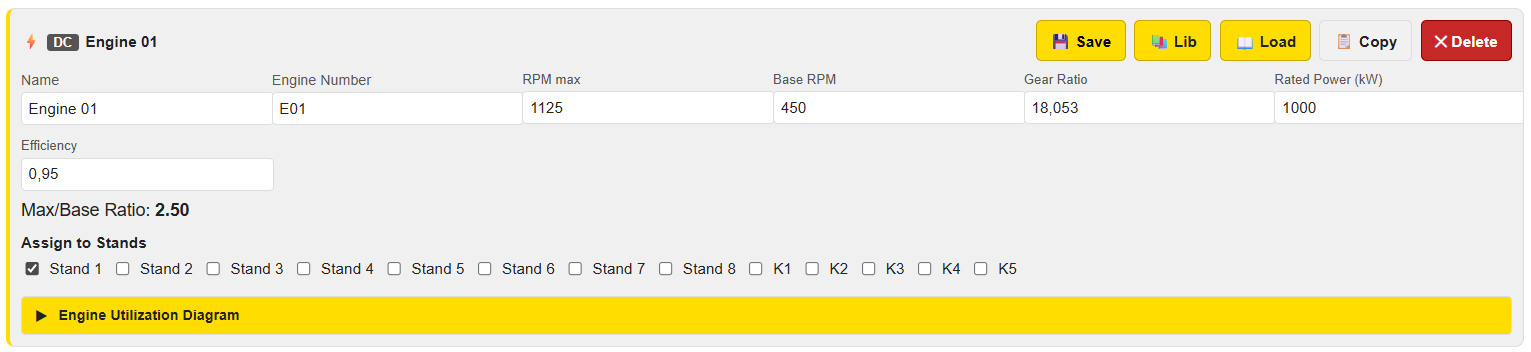
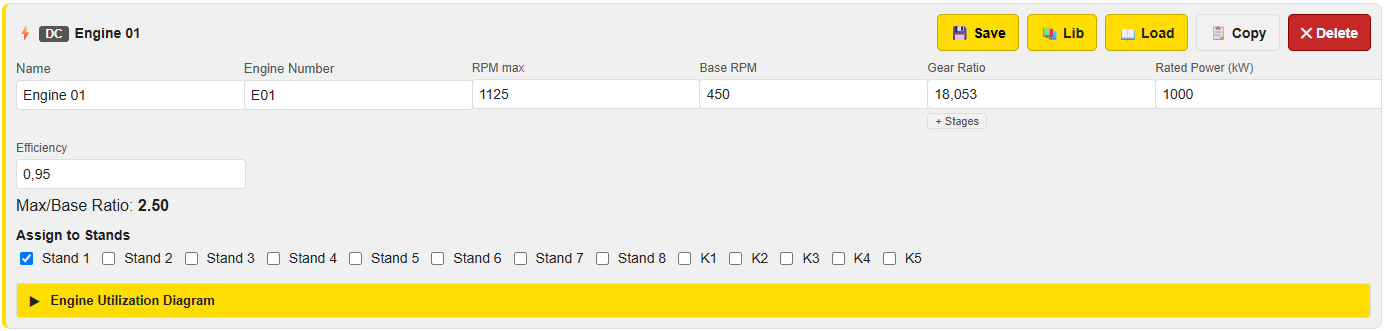
docs: sync PassDesign_Guide and EngineConfiguration_Guide with v1.10.15 - Roux/Sander/Sparling, disk element count, rotation override, gear stages, updated images

diff --git a/PassDesign_Guide.html b/PassDesign_Guide.html
@@ -115,7 +115,7 @@
 </div>
 
 <h1>Pass Design Guide <img src="img/pyroll_icon.png" style="height:1.8em; opacity:0.85;" alt="PyRoll"></h1>
-<p><em>PyRoll GUI &nbsp;|&nbsp; Date: May 2026</em></p>
+<p><em>PyRoll GUI &nbsp;|&nbsp; Date: July 2026</em></p>
 
 <hr>
 
@@ -282,6 +282,14 @@
   <tr><td><code>Value</code></td><td>m/s or 1/s</td><td>Numeric value corresponding to the velocity definition selected above.</td></tr>
   <tr><td><code>Coulomb Friction Coefficient</code></td><td>—</td><td>Friction coefficient μ between workpiece and roll surface. Typical values: 0.2–0.4 for hot rolling.</td></tr>
   <tr><td><code>Orientation</code></td><td>—</td><td>Roll axis orientation: <em>horizontal</em> (rolls above/below) or <em>vertical</em> (rolls left/right).</td></tr>
+  <tr><td><code>Rotation Override</code></td><td>°</td><td>Optional additional rotation of the incoming profile <em>before</em> it enters this pass, in degrees. Equivalent to inserting a mechanical rotator between the preceding pass and this one.
+    <br><br>
+    <strong>Typical use:</strong> A value of <strong>45°</strong> is used when a square profile from a preceding pass should enter a flat groove on its side (flat-side first) rather than corner-first — which is the case in the classical oval&nbsp;→&nbsp;square&nbsp;→&nbsp;<em>rotated</em>&nbsp;→&nbsp;flat sequence. Without this rotation, PyRolL would compress the corner of the square instead of the flat face.
+    <br><br>
+    <strong>Effect on visualization:</strong> The Pass Sequence Visualization shows the incoming profile already in the rotated orientation relative to the roll gap, so it correctly reflects the physical deformation geometry.
+    <br><br>
+    Leave blank or set to <strong>0</strong> for no rotation (standard case).
+  </td></tr>
   <tr><td><code>Groove Type</code></td><td>—</td><td>Cross-sectional profile of the roll groove. See Section 6 for available types. The <span style="display:inline-flex;align-items:center;justify-content:center;width:16px;height:16px;border-radius:50%;background:#1976d2;color:#fff;font-size:11px;font-weight:700;font-style:normal;line-height:1;vertical-align:middle;">i</span> button next to the selector opens a preview panel showing all groove types with their geometric parameters.</td></tr>
   <tr><td><code>Groove Parameters</code></td><td>mm</td><td>Geometry parameters specific to the selected groove type (radii, depths, widths). See Section 6. Use the <strong>Library</strong> button to load or save a groove directly from the Groove Library.</td></tr>
 </table>
@@ -703,6 +711,58 @@
   the block motor RPM serves as the velocity constraint.
 </div>
 
+<h3>10.3 Disk Element Count</h3>
+<p>
+  The <strong>Disk Element Count</strong> controls how finely PyRolL subdivides each pass
+  in the rolling direction for the thermal and mechanical computation. The roll bite is
+  divided into <em>n</em> equally spaced disk elements; the thermal ring model solves
+  the heat equation at each disk position. The setting is located in the sequence header
+  toolbar, next to the Spreading Equation selector.
+</p>
+
+<img src="img/pass_design_disc_element_count.png" alt="Disk Element Count selector in the sequence header toolbar" class="screenshot">
+
+<table class="params-table">
+  <tr><th>Value</th><th>Effect</th><th>Typical use</th></tr>
+  <tr>
+    <td><strong>5 – 10</strong></td>
+    <td>Very fast; coarse temperature / stress distribution along the bite</td>
+    <td>Quick parameter studies, large reduction passes with slow convergence</td>
+  </tr>
+  <tr>
+    <td><strong>15 – 20</strong></td>
+    <td>Good balance between speed and accuracy</td>
+    <td>Iterative calibration, multi-sequence schedules</td>
+  </tr>
+  <tr>
+    <td><strong>30</strong></td>
+    <td>Default — high spatial resolution; noticeable computation time per pass</td>
+    <td>Final validation simulations, accuracy-critical results</td>
+  </tr>
+  <tr>
+    <td><strong>50+</strong></td>
+    <td>Maximum resolution; significantly longer computation time</td>
+    <td>Research / publication; thermal gradient studies</td>
+  </tr>
+</table>
+
+<div class="warn">
+  <strong>Impact on computation time:</strong> The computation time per pass scales
+  <em>approximately linearly</em> with the disk element count. Reducing from 30 to 15
+  approximately halves the solve time per pass. For schedules where a pass hits the
+  maximum iteration count (convergence warning in the backend log), reducing the disk
+  element count is the fastest way to speed up the simulation — the physical result
+  changes only marginally at moderate reductions.
+</div>
+
+<div class="info">
+  <strong>Convergence warnings:</strong> If the backend log shows
+  <em>"Solution iteration … exceeded the maximum iteration count of 100"</em>, the
+  solver could not fully converge for that pass. This typically happens at very large
+  reductions (&gt; 50 % area reduction in one pass). Reducing the Disk Element Count
+  to 10–15 usually resolves the issue without significantly affecting result quality.
+</div>
+
 <hr>
 
 <h2>11. Spreading Models</h2>
@@ -797,7 +857,80 @@
   for flat and near-flat passes where the plane-strain assumption is approximately valid.
 </p>
 
-<h3>11.4 Choosing a Model</h3>
+<h3>11.4 Roux Spreading</h3>
+<p>
+  The <strong>Roux</strong> model (1976) takes a fundamentally different approach: instead of a
+  simple power law, it computes a <em>spread coefficient</em> from two intermediate
+  parameters derived from the equivalent height/width dimensions of the incoming profile.
+</p>
+<div class="formula-box">
+  $$\eta = 1 + \frac{\Delta h_{eq} \cdot F_2 \cdot F_3}{b_{eq,0}}$$
+  <p style="margin:0.5em 0 0 0; font-size:0.92em;">
+    First Roux parameter:<br>
+    \(a = \left(1 + 5\left(0.35 - \dfrac{\Delta h_{eq}}{h_{eq,0}}\right)^{\!2}\right)\sqrt{\dfrac{h_{eq,0}}{\Delta h_{eq}} - 1}\)
+    &nbsp;&nbsp;&nbsp;
+    Second Roux parameter:<br>
+    \(b = \left(\dfrac{b_{eq,0}}{h_{eq,0}} - 1\right)\)<br><br>
+    Spread factor \(F_2\):<br>
+    \(F_2 = \dfrac{1}{\left(1 - \dfrac{\Delta h_{eq}}{h_{eq,0}}\right) + \dfrac{3a}{\left(\dfrac{2R}{h_{eq,0}}\right)^{3/4}}}\)
+    &nbsp;&nbsp;&nbsp;
+    Profile factor \(F_3\):<br>
+    \(F_3 = \dfrac{b_{eq,0}/h_{eq,0}}{1 + 0.57\,b}\)<br><br>
+    where \(h_{eq,0}, b_{eq,0}\) = equivalent height / width of incoming profile,
+    \(\Delta h_{eq}\) = equivalent height reduction, \(R\) = working roll radius.
+    Then \(b_1 = \eta \cdot b_0\).
+  </p>
+</div>
+<div class="note">
+  <strong>Friction / Velocity / Temperature — no effect with Roux:</strong> The default
+  implementation contains no correction factors for velocity, temperature, material or
+  friction. The spread result depends solely on the geometric ratio
+  \(b_{eq}/h_{eq}\) and the roll radius.
+</div>
+
+<h3>11.5 Sander Spreading</h3>
+<p>
+  The <strong>Sander</strong> model shares the same general power-law structure as
+  Wusatowski but uses a different exponent formula that explicitly accounts for the
+  ratio of workpiece width to contact arc length:
+</p>
+<div class="formula-box">
+  $$\frac{b_1}{b_0} = a_T \cdot a_v \cdot a_M \cdot a_f \cdot \left(\frac{h_0}{h_1}\right)^{\psi_S}$$
+  <p style="margin:0.5em 0 0 0; font-size:0.92em;">
+    Sander exponent:<br>
+    \(\psi_S = 10^{\,-0.76\,\left(\frac{b_{eq}}{h_{eq}}\right)^{0.39}\,\left(\frac{b_{eq}}{\sqrt{R\,\Delta h_{eq}}}\right)^{0.12}\,\left(\frac{b_{eq}}{R}\right)^{0.59}}\)
+  </p>
+</div>
+<div class="info">
+  <strong>Velocity correction \(a_v\) with Sander:</strong> A velocity correction applies
+  when \(v \le 60\) m/s:
+  \(a_v = 1 - 0.0033 \cdot v \cdot \left(1 - \frac{b_0}{b_1}\right)\).
+  At high rolling speeds (\(v > 60\) m/s) the correction is set to 1 (no effect).
+</div>
+<div class="note">
+  <strong>Friction — no effect with Sander:</strong> The friction correction factor is
+  fixed at \(a_f = 1\).
+</div>
+
+<h3>11.6 Sparling Spreading</h3>
+<p>
+  The <strong>Sparling</strong> model adopts the Wusatowski-style power law but
+  introduces a distinctive exponential exponent formula:
+</p>
+<div class="formula-box">
+  $$\frac{b_1}{b_0} = \left(\frac{h_0}{h_1}\right)^{-\psi_{Sp} \cdot a_T \cdot a_{\dot\varepsilon} \cdot a_M \cdot a_{rs} \cdot a_{bs}}$$
+  <p style="margin:0.5em 0 0 0; font-size:0.92em;">
+    Sparling exponent:<br>
+    \(\psi_{Sp} = 0.981 \cdot \exp\!\left(-0.6735 \cdot \dfrac{2.395\,b_{eq}^{\,0.9}}{R^{0.55}\,h_{eq}^{\,0.1}\,|\Delta h|^{0.25}}\right)\)<br><br>
+    All correction factors default to 1 in the standard implementation.
+  </p>
+</div>
+<div class="note">
+  <strong>Friction / Velocity / Temperature — no effect (default):</strong> All
+  correction factors default to 1.
+</div>
+
+<h3>11.7 Choosing a Model</h3>
 <table>
   <tr><th>Model</th><th>Best suited for</th><th>Friction effect</th><th>Velocity effect</th><th>Notes</th></tr>
   <tr>
@@ -820,6 +953,27 @@
     <td>Indirect (via friction in force/torque)</td>
     <td>None</td>
     <td>Analytically derived; less accurate for profiled grooves</td>
+  </tr>
+  <tr>
+    <td>Roux</td>
+    <td>Wide workpieces; cases where velocity/temperature data is uncertain</td>
+    <td>None</td>
+    <td>None</td>
+    <td>Physics-motivated derivation; no empirical correction factors</td>
+  </tr>
+  <tr>
+    <td>Sander</td>
+    <td>Wide flat passes, workpieces with large \(b/h\) ratio</td>
+    <td>None (constant \(a_f=1\))</td>
+    <td><strong>Yes</strong> — at \(v \le 60\) m/s</td>
+    <td>Exponent more sensitive to width-to-contact-arc ratio than Wusatowski</td>
+  </tr>
+  <tr>
+    <td>Sparling</td>
+    <td>High-reduction passes; comparison / validation studies</td>
+    <td>None (default)</td>
+    <td>None (default)</td>
+    <td>Exponential exponent form; sensitive to \(b/\sqrt{R\,|\Delta h|}\)</td>
   </tr>
 </table>
 

diff --git a/EngineConfiguration_Guide.html b/EngineConfiguration_Guide.html
@@ -109,7 +109,7 @@
 </div>
 
 <h1>Engine Configuration Guide <img src="img/pyroll_icon.png" style="height:1.8em; opacity:0.85;" alt="PyRoll"></h1>
-<p><em>PyRoll GUI &nbsp;|&nbsp; Date: June 2026</em></p>
+<p><em>PyRoll GUI &nbsp;|&nbsp; Date: July 2026</em></p>
 <hr>
 
 <nav class="toc">
@@ -118,7 +118,11 @@
     <li><a href="#overview">Overview</a></li>
     <li><a href="#engine-card">Engine Card</a></li>
     <li><a href="#engine-types">Engine Types: DC vs. AC</a></li>
-    <li><a href="#parameters">Engine Parameters</a></li>
+    <li><a href="#parameters">Engine Parameters</a>
+      <ul style="list-style:none; padding-left:1.2em; margin:0.2em 0;">
+        <li><a href="#gear-stages">4.1 Multi-Stage Gear Ratio</a></li>
+      </ul>
+    </li>
     <li><a href="#assign">Assign to Stands</a></li>
     <li><a href="#utilization">Engine Utilization Diagram</a></li>
     <li><a href="#actions">Card Actions: Save, Copy, Delete</a></li>
@@ -239,7 +243,7 @@
   <tr><td>RPM max</td><td>rpm</td><td>Maximum allowable motor speed (top of the field-weakening range for DC; inverter limit for AC)</td></tr>
   <tr><td>Base RPM <em>(DC)</em> / Rated RPM <em>(AC)</em></td><td>rpm</td><td>Speed at the rated operating point — transition between constant-torque and constant-power zones</td></tr>
   <tr><td>Power Factor cos φ</td><td>—</td><td><em>AC only.</em> Ratio of active to apparent power (typical: 0.85–0.95)</td></tr>
-  <tr><td>Gear Ratio</td><td>—</td><td>Overall gear ratio between motor shaft and roll: <em>i = n_motor / n_roll</em>. A higher gear ratio means the motor rotates faster than the roll.</td></tr>
+  <tr><td>Gear Ratio</td><td>—</td><td>Overall gear ratio between motor shaft and roll: <em>i = n_motor / n_roll</em>. A higher gear ratio means the motor rotates faster than the roll.<br>A <strong>+ Stages</strong> button below the field activates multi-stage gear ratio mode — see Section 4.1.</td></tr>
   <tr><td>Rated Power</td><td>kW</td><td>Continuous rated shaft power at the rated RPM point</td></tr>
   <tr><td>Efficiency η</td><td>—</td><td>Mechanical drive-train efficiency (gearbox + coupling losses). Typical: 0.90–0.97. The required motor power is divided by η to obtain the actual motor demand.</td></tr>
 </table>
@@ -247,6 +251,51 @@
 <div class="tip">
   Comma-separated decimal numbers (e.g. <code>18,053</code>) are accepted in all
   numeric fields — the comma is automatically converted to a decimal point.
+</div>
+
+
+<!-- ═══════════════════════════════════════════════════════════ -->
+<h2 id="gear-stages">4.1 Multi-Stage Gear Ratio</h2>
+<p>
+  Some roll stands have a switchable gearbox with two or three discrete gear ratios
+  (e.g. a two-speed or three-speed gearbox). The <strong>Multi-Stage Gear Ratio</strong>
+  feature lets you store all available gear ratios on the engine card and switch the
+  active stage without losing the other values.
+</p>
+
+<img class="screenshot" src="img/engine_configuration_engine_card_gear_stages.png" alt="Engine Card with Gear Stages expanded — three stage inputs and active-stage dropdown">
+
+<h4>Activating Gear Stages</h4>
+<p>
+  Click the small <strong>+ Stages</strong> button that appears below the
+  <em>Gear Ratio</em> input field. Three input fields appear side by side
+  (Stage&nbsp;1, Stage&nbsp;2, Stage&nbsp;3), pre-filled with the current single
+  gear ratio value. Edit each field to enter the corresponding gear ratio.
+</p>
+
+<h4>Selecting the Active Stage</h4>
+<p>
+  Use the <strong>Stage 1 / Stage 2 / Stage 3</strong> dropdown to choose which
+  gear stage is currently engaged. The selected stage is highlighted with a
+  yellow background. The value of the active stage is automatically written to
+  the <em>Gear Ratio</em> field that the simulation uses — no manual update needed.
+</p>
+
+<div class="info">
+  <strong>Compact workflow:</strong>
+  After configuring all three stage values you can collapse the stages panel
+  by clicking <strong>&minus; Stages</strong>. The card returns to the single
+  Gear Ratio view, showing the currently active value. To change the active stage,
+  simply click <strong>+ Stages (saved)</strong> again, pick a different stage,
+  then collapse again. The other stage values are never lost.
+</div>
+
+<div class="tip">
+  <strong>Simulation always uses the active stage.</strong>
+  The PyRolL solver reads only the <em>Gear Ratio</em> field — which is
+  automatically kept in sync with the selected active stage. Switching the active
+  stage before a simulation run is therefore sufficient to model different gearbox
+  positions without any other changes to the pass schedule.
 </div>
 
 
